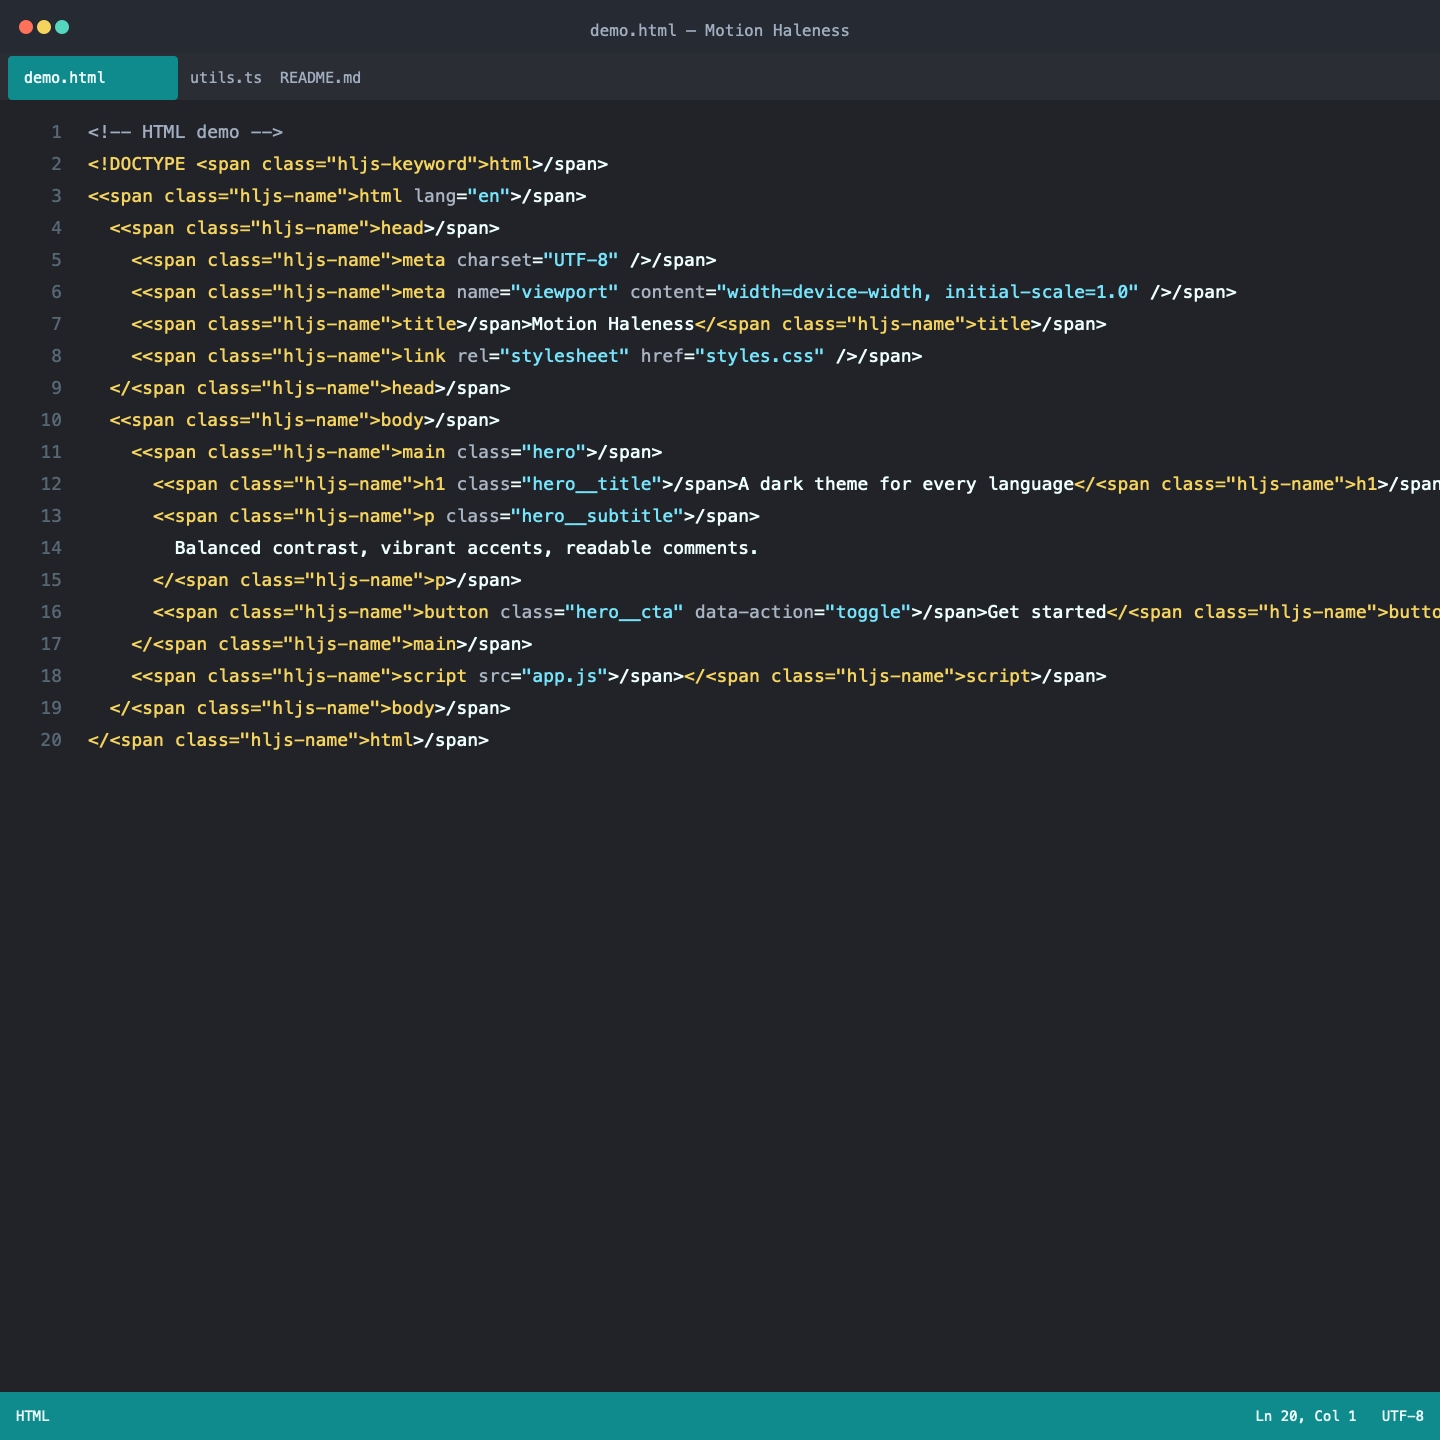
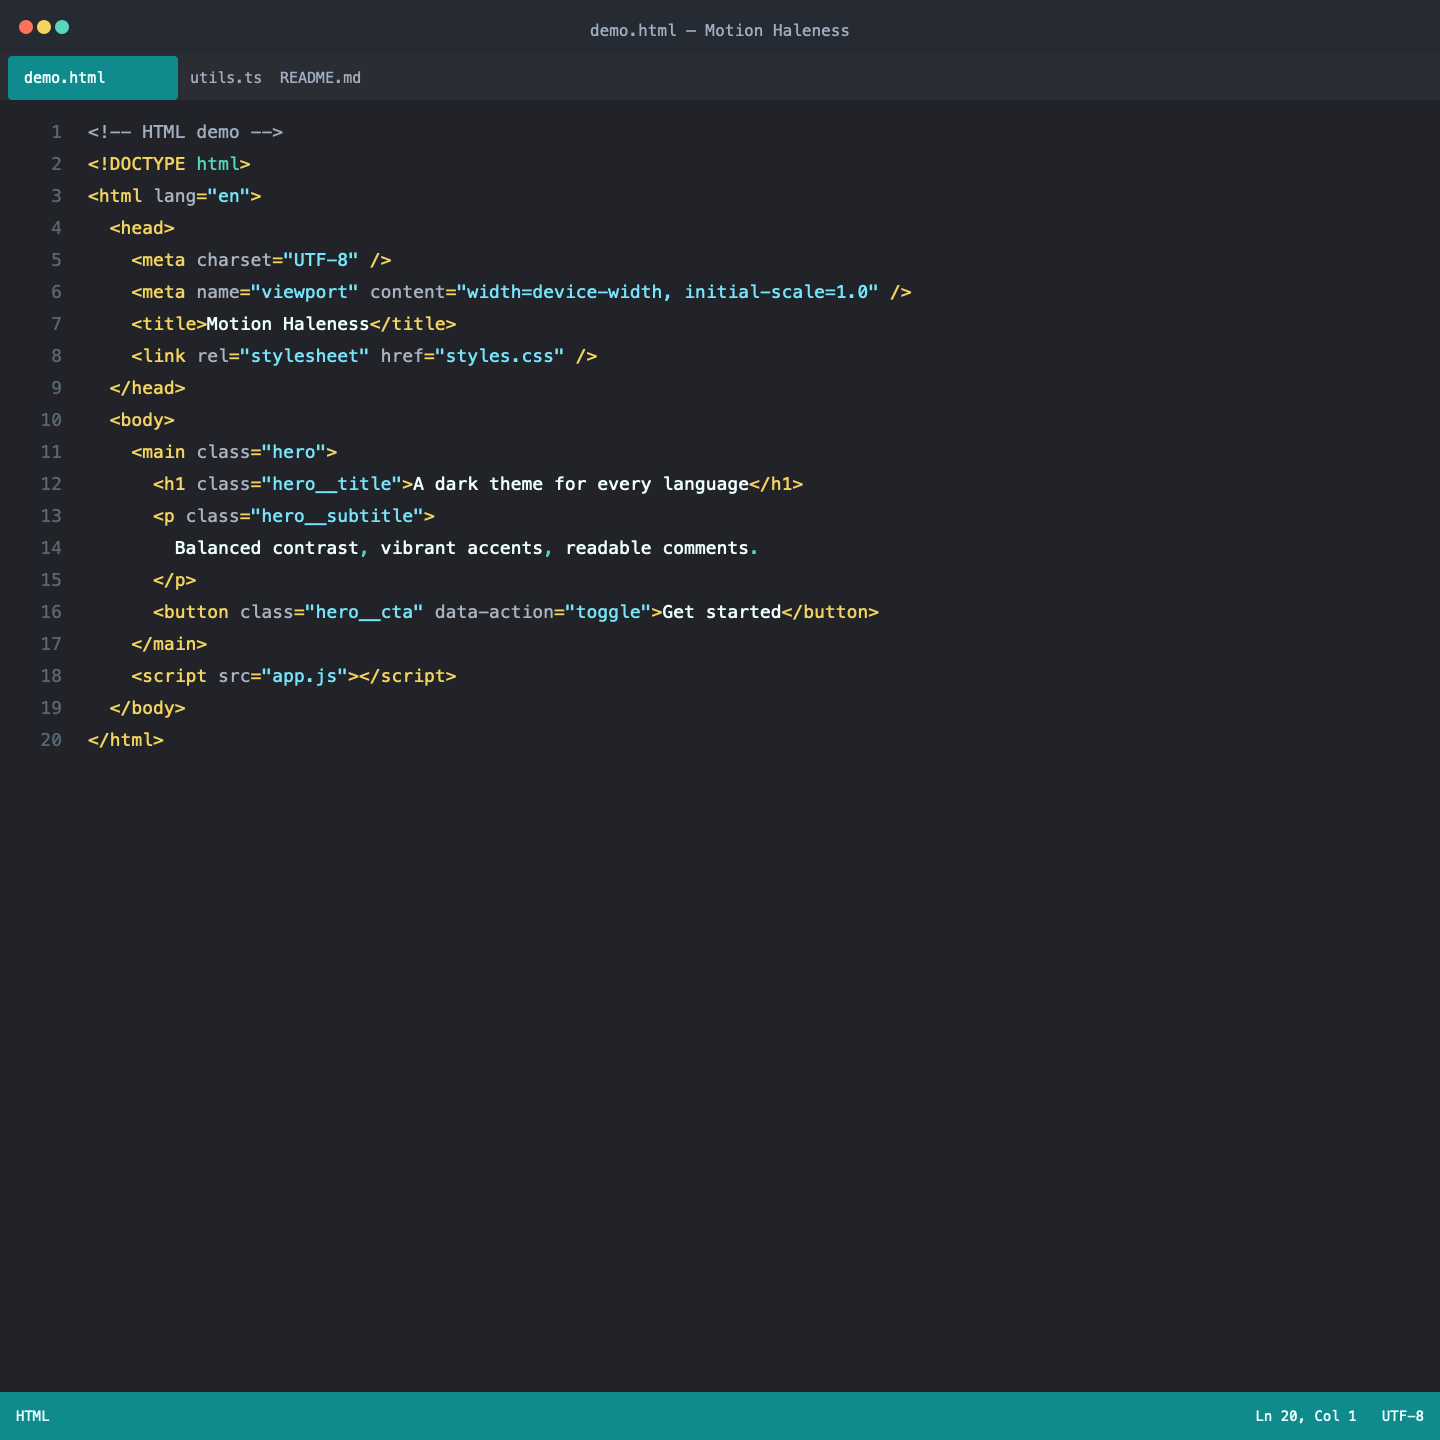
split TS and React examples, color punctuation in screenshots

diff --git a/scripts/generate-screenshots.js b/scripts/generate-screenshots.js
@@ -10,6 +10,7 @@ const OUT_DIR = process.argv[2] || "/tmp/mh-screenshots";
 
 const LANGS = {
   ts: "typescript",
+  tsx: "tsx",
   py: "python",
   go: "go",
   rs: "rust",
@@ -82,16 +83,59 @@ function escapeXml(s) {
 
 function tokensFromHtml(html) {
   const runs = [];
-  const re = /<span class="([^"]+)">([\s\S]*?)<\/span>|([^<]+)/g;
-  let m;
-  while ((m = re.exec(html)) !== null) {
-    if (m[1]) {
-      runs.push({ classes: m[1].split(/\s+/), text: decodeHtml(m[2]) });
-    } else if (m[3] !== undefined) {
-      runs.push({ classes: [], text: decodeHtml(m[3]) });
+  const stack = [];
+  let text = "";
+  let i = 0;
+  const openRe = /^<span class="([^"]+)">/;
+  const push = (classes) => {
+    if (text) {
+      runs.push({ classes: [...classes], text: decodeHtml(text) });
+      text = "";
+    }
+  };
+  while (i < html.length) {
+    if (html.startsWith("<span class=", i)) {
+      const m = openRe.exec(html.slice(i));
+      push(stack.length ? stack[stack.length - 1] : []);
+      stack.push(m[1].split(/\s+/));
+      i += m[0].length;
+    } else if (html.startsWith("</span>", i)) {
+      push(stack.length ? stack[stack.length - 1] : []);
+      stack.pop();
+      i += 7;
+    } else {
+      text += html[i];
+      i += 1;
     }
   }
+  push([]);
   return runs;
+}
+
+const PUNCT_RE = /[{}()[\];,.:]/;
+const OP_RE = /[=+\-*/%&|!<>?]/;
+
+function splitByChar(text, color) {
+  if (color !== "#EEFFFF") return [{ text, color }];
+  const out = [];
+  let buf = "";
+  let bufColor = "#EEFFFF";
+  const flush = () => {
+    if (buf) {
+      out.push({ text: buf, color: bufColor });
+      buf = "";
+    }
+  };
+  for (const ch of text) {
+    const c = PUNCT_RE.test(ch) ? "#55D6BE" : OP_RE.test(ch) ? "#a0aec0" : "#EEFFFF";
+    if (c !== bufColor) {
+      flush();
+      bufColor = c;
+    }
+    buf += ch;
+  }
+  flush();
+  return out;
 }
 
 const W = 1440;
@@ -160,10 +204,13 @@ function buildSvg(langLabel, fileName, code) {
     parts.push(
       `<text x="${gutterX}" y="${y}" fill="#576773" font-family="${FONT}" font-size="${fontSize}" text-anchor="end">${i + 1}</text>`
     );
-    const tspans = runs
-      .map((r) => `<tspan fill="${colorFor(r.classes)}">${escapeXml(r.text).replace(/ /g, "&#160;")}</tspan>`)
-      .join("");
-    parts.push(`<text x="${codeX}" y="${y}" fill="#EEFFFF" font-family="${FONT}" font-size="${fontSize}">${tspans}</text>`);
+    const tspans = [];
+    for (const r of runs) {
+      for (const seg of splitByChar(r.text, colorFor(r.classes))) {
+        tspans.push(`<tspan fill="${seg.color}">${escapeXml(seg.text).replace(/ /g, "&#160;")}</tspan>`);
+      }
+    }
+    parts.push(`<text x="${codeX}" y="${y}" fill="#EEFFFF" font-family="${FONT}" font-size="${fontSize}">${tspans.join("")}</text>`);
   });
 
   // status bar

diff --git a/assets/examples/demo.ts b/assets/examples/demo.ts
@@ -1,25 +1,25 @@
-// TypeScript demo — showcasing the Motion Haleness palette
-import { useState, useEffect } from "react";
+// TypeScript demo — types, generics and async helpers
+type Status = "idle" | "loading" | "success" | "error";
 
-interface Todo {
+interface User {
   id: number;
-  title: string;
-  completed: boolean;
+  name: string;
+  status: Status;
 }
 
-const FILTERS = ["all", "active", "done"] as const;
+const CACHE_TTL_MS = 5 * 60 * 1000;
 
-export function useTodos(initial: Todo[]) {
-  const [todos, setTodos] = useState<Todo[]>(initial);
+async function fetchUsers(limit: number = 20): Promise<User[]> {
+  const res = await fetch(`/api/users?limit=${limit}`);
+  if (!res.ok) throw new Error(`HTTP ${res.status}`);
+  const data: User[] = await res.json();
+  return data.filter((u) => u.status !== "error");
+}
 
-  const toggle = (id: number) =>
-    setTodos((prev) =>
-      prev.map((t) => (t.id === id ? { ...t, completed: !t.completed } : t))
-    );
-
-  useEffect(() => {
-    console.log(`todos updated: ${todos.length}`);
-  }, [todos]);
-
-  return { todos, toggle };
+function groupBy<T, K extends keyof T>(items: T[], key: K): Map<T[K], T[]> {
+  return items.reduce((map, item) => {
+    const k = item[key];
+    (map.get(k) ?? []).push(item);
+    return map;
+  }, new Map<T[K], T[]>());
 }

diff --git a/assets/examples/demo.tsx b/assets/examples/demo.tsx
@@ -1,0 +1,30 @@
+// React demo — a todo list component in TSX
+import { useState } from "react";
+
+interface Todo {
+  id: number;
+  title: string;
+  done: boolean;
+}
+
+export function TodoList({ items }: { items: Todo[] }) {
+  const [todos, setTodos] = useState<Todo[]>(items);
+
+  const toggle = (id: number) =>
+    setTodos((prev) =>
+      prev.map((t) => (t.id === id ? { ...t, done: !t.done } : t))
+    );
+
+  return (
+    <ul className="todo-list">
+      {todos.map((todo) => (
+        <li key={todo.id}>
+          <label>
+            <input type="checkbox" checked={todo.done} onChange={() => toggle(todo.id)} />
+            <span>{todo.title}</span>
+          </label>
+        </li>
+      ))}
+    </ul>
+  );
+}

diff --git a/README.md b/README.md
@@ -2,7 +2,7 @@
 
 A modern, high-contrast dark color theme for Visual Studio Code. Ready to install, ready to use and nothing to configure.
 
-Motion Haleness is tuned for the way you code today. It pairs beautifully with AI coding agents like **Claude Code**, **Codex** and **Kilo Code**, with dedicated high-contrast chat colors that keep agent conversations easy to read. And because the palette is language-agnostic, your code looks consistent and balanced in TypeScript, JavaScript, Python, Go, Rust, HTML, CSS, SQL, and everything else your editor can parse.
+Motion Haleness is tuned for the way you code today. It pairs beautifully with AI coding agents like **Claude Code**, **Codex** and **Kilo Code**, with dedicated high-contrast chat colors that keep agent conversations easy to read. And because the palette is language-agnostic, your code looks consistent and balanced in TypeScript, React (TSX), JavaScript, Python, Go, Rust, HTML, CSS, SQL, and everything else your editor can parse.
 
 ## Features
 
@@ -16,6 +16,8 @@ Motion Haleness is tuned for the way you code today. It pairs beautifully with A
 ## Screenshots
 
 <img src="assets/screenshots/demo-ts.png" width="700" alt="TypeScript">
+
+<img src="assets/screenshots/demo-tsx.png" width="700" alt="React (TSX)">
 
 <img src="assets/screenshots/demo-py.png" width="700" alt="Python">
 
